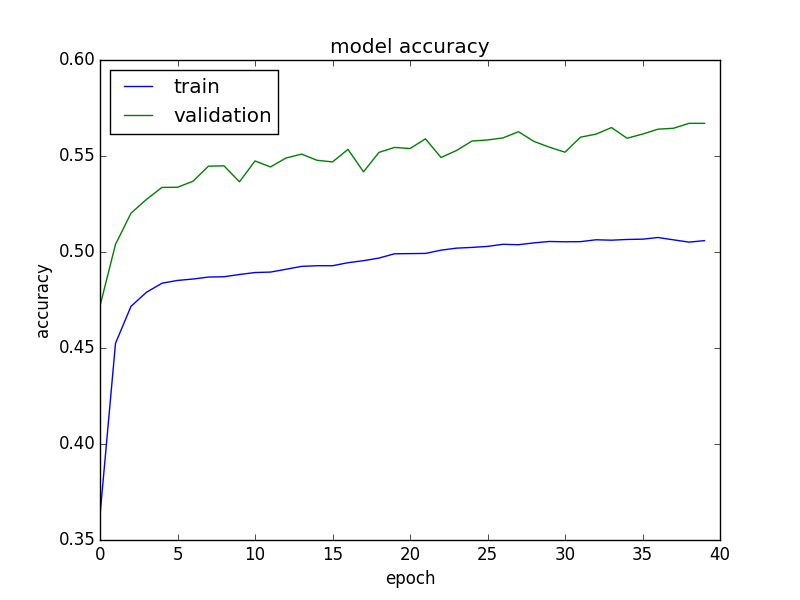
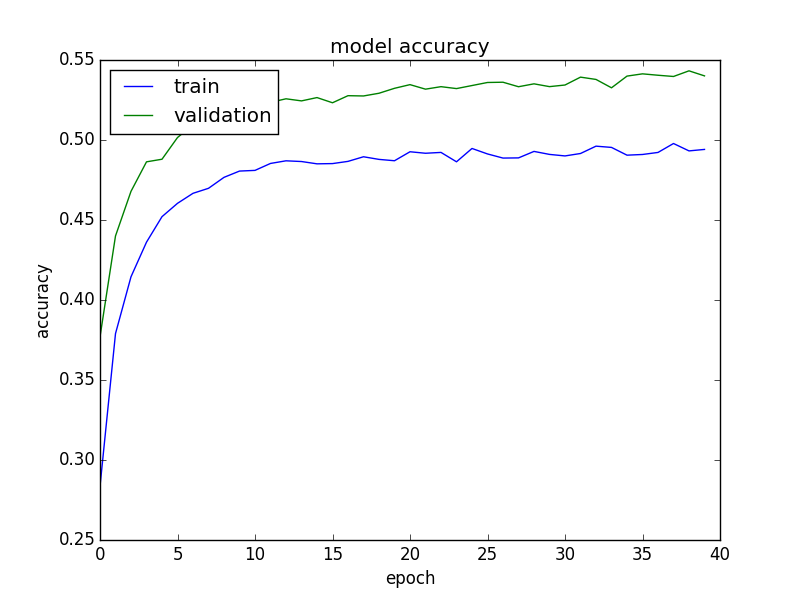
Experimento con 25% de dataset de train y una capa convolucional.

diff --git a/ex3b_convnet_1conv/ex3b_convnet_1conv.py b/ex3b_convnet_1conv/ex3b_convnet_1conv.py
@@ -68,7 +68,7 @@ tst_dataset = img_generator.flow_from_directory(
     batch_size=batch_size
 )
 
-trainSamples = int(trn_dataset.N)
+trainSamples = int(trn_dataset.N * .25)
 trainSamples -= trainSamples % batch_size  # tiene que se multiplo de batch_size
                                            # https://github.com/fchollet/keras/issues/3256
 validationSamples = int(val_dataset.N)
